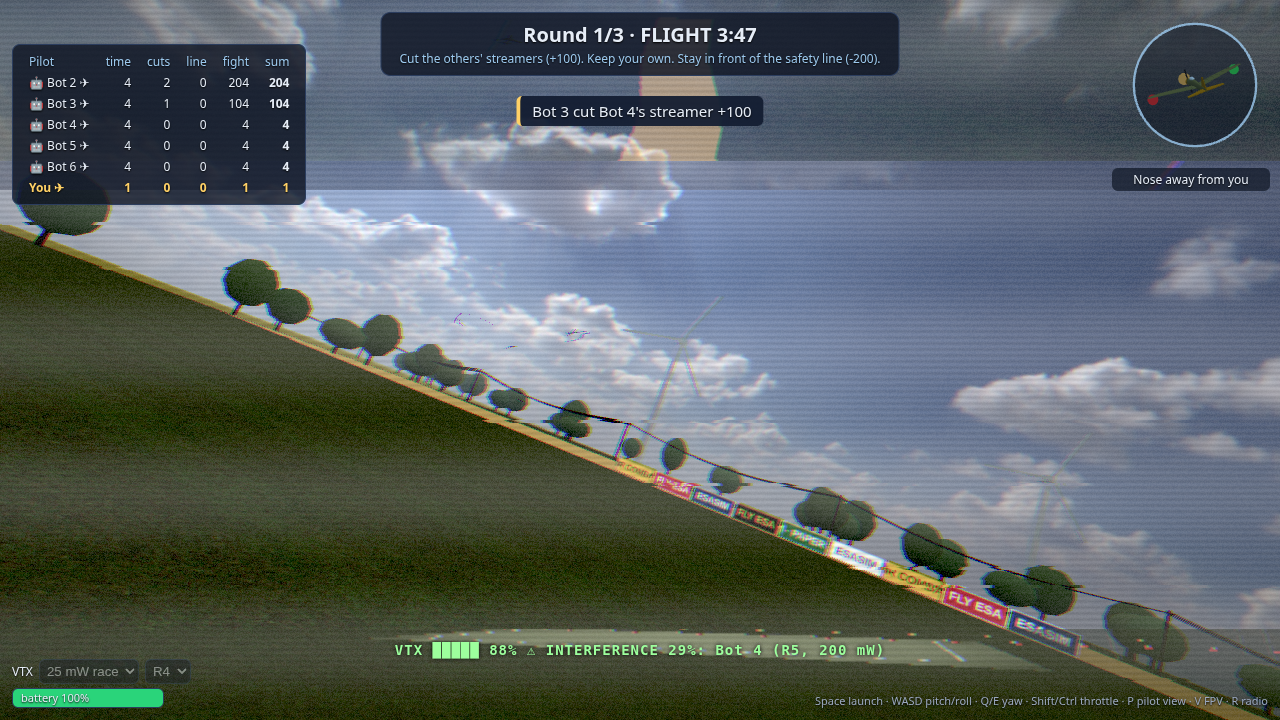
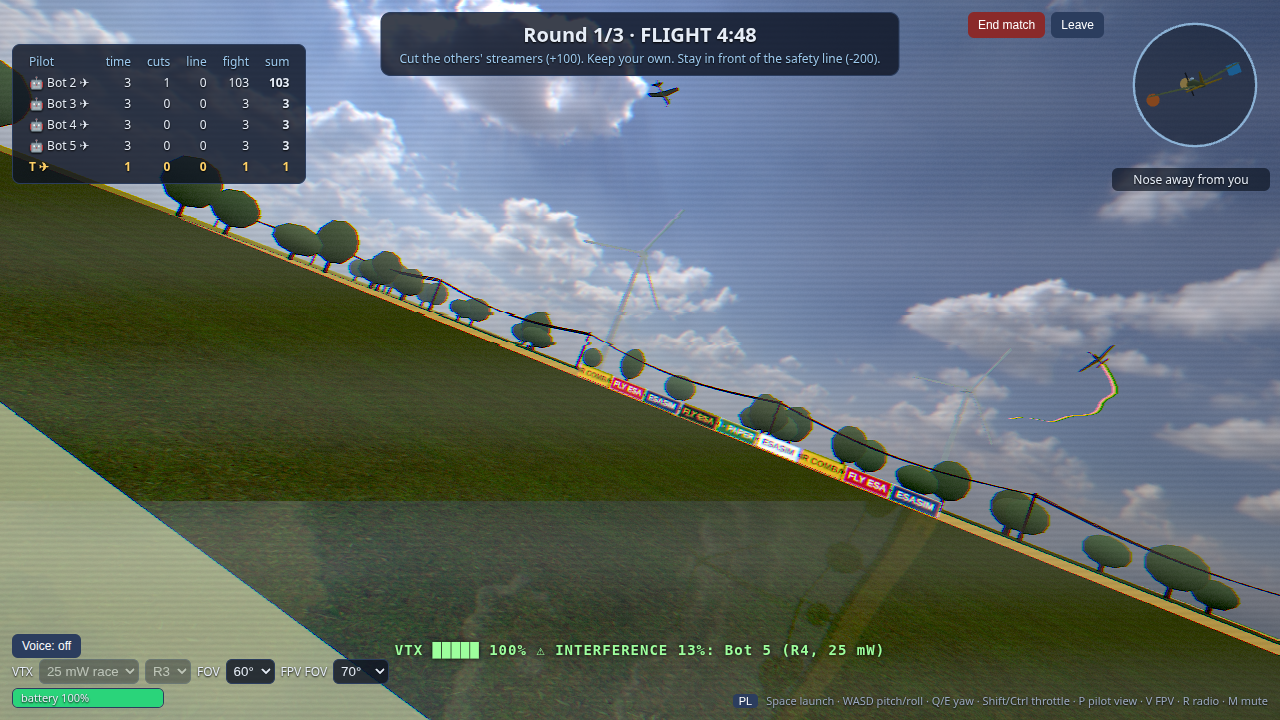
Slightly better FPV feed: light sharpening, subtler artefacts, a bit more clean range

diff --git a/client/fpvEffect.js b/client/fpvEffect.js
@@ -3,18 +3,21 @@
 // The signal model lives in shared/vtx.js (range by VTX power, interference from other pilots' transmitters).
 
 export const FpvShader = {
-  uniforms: { tDiffuse: { value: null }, tFeedB: { value: null }, time: { value: 0 }, noise: { value: 0 }, interf: { value: 0 }, aspect: { value: 1.78 } },
+  uniforms: { tDiffuse: { value: null }, tFeedB: { value: null }, time: { value: 0 }, noise: { value: 0 }, interf: { value: 0 }, aspect: { value: 1.78 }, texel: { value: [1 / 1280, 1 / 720] } },
   vertexShader: "varying vec2 vUv; void main(){ vUv = uv; gl_Position = projectionMatrix * modelViewMatrix * vec4(position, 1.0); }",
   fragmentShader: `
-    uniform sampler2D tDiffuse; uniform sampler2D tFeedB; uniform float time; uniform float noise; uniform float interf; uniform float aspect; varying vec2 vUv;
+    uniform sampler2D tDiffuse; uniform sampler2D tFeedB; uniform float time; uniform float noise; uniform float interf; uniform float aspect; uniform vec2 texel; varying vec2 vUv;
     float hash(vec2 p){ return fract(sin(dot(p, vec2(12.9898, 78.233)) + time * 1.7) * 43758.5453); }
     void main(){
       vec2 uv = vUv; float n = noise;
       float line = floor(uv.y * 240.0);
       float tear = step(0.985 - 0.25 * n, hash(vec2(line * 0.07, floor(time * 12.0))));      // occasional torn bands
       uv.x += (hash(vec2(line, 1.0)) - 0.5) * 0.012 * n * n + tear * (hash(vec2(line, 2.0)) - 0.5) * 0.12 * n;
-      float ca = 0.0012 + 0.006 * n;                                                          // colour fringing
+      float ca = 0.0008 + 0.006 * n;                                                          // colour fringing (subtle when the link is good)
       vec3 c = vec3(texture2D(tDiffuse, uv + vec2(ca, 0.0)).r, texture2D(tDiffuse, uv).g, texture2D(tDiffuse, uv - vec2(ca, 0.0)).b);
+      // a touch of sharpening while the link is good (unsharp mask), fading out as the signal degrades
+      vec3 bl = 0.25 * (texture2D(tDiffuse, uv + vec2(texel.x, 0.0)).rgb + texture2D(tDiffuse, uv - vec2(texel.x, 0.0)).rgb + texture2D(tDiffuse, uv + vec2(0.0, texel.y)).rgb + texture2D(tDiffuse, uv - vec2(0.0, texel.y)).rgb);
+      c += (c - bl) * 0.45 * (1.0 - n);
       if (interf > 0.01) {                                                                    // another pilot's feed rolls through mine
         float bar = step(fract(uv.y * 0.9 - time * 0.45), 0.25 + 0.7 * interf);
         float wB = clamp(bar * smoothstep(0.08, 0.45, interf) + smoothstep(0.85, 1.0, interf), 0.0, 1.0);
@@ -24,12 +27,12 @@ export const FpvShader = {
         c += 0.10 * interf * sin(uv.y * 30.0 + time * 25.0);                                  // hum bars
       }
       float l = dot(c, vec3(0.299, 0.587, 0.114));
-      c = mix(vec3(l), c, 0.85 - 0.5 * n);                                                    // washed-out colour
-      c *= 0.9 + 0.1 * sin(uv.y * 240.0 * 3.14159);                                           // scanlines
+      c = mix(vec3(l), c, 0.97 - 0.55 * n);                                                    // washed-out colour
+      c *= 0.94 + 0.06 * sin(uv.y * 240.0 * 3.14159);                                           // scanlines
       float snow = hash(uv * vec2(aspect * 520.0, 520.0));
       c = mix(c, vec3(snow), clamp(n * n * 0.6 + smoothstep(0.7, 1.0, n) * 0.9, 0.0, 1.0));   // snow, full static near the end of the range
-      c += (snow - 0.5) * 0.06 * (0.3 + n);
-      vec2 d = vUv - 0.5; c *= 1.0 - 0.5 * dot(d, d);                                         // lens vignette
+      c += (snow - 0.5) * 0.04 * (0.2 + n);
+      vec2 d = vUv - 0.5; c *= 1.0 - 0.35 * dot(d, d);                                         // lens vignette
       gl_FragColor = vec4(c, 1.0);
     }`,
 };

diff --git a/shared/vtx.js b/shared/vtx.js
@@ -8,8 +8,8 @@ export const VTX_POWERS = [25, 50, 100];          // mW; 25 mW is race mode
 export const CHANNELS = ["R1", "R2", "R3", "R4", "R5", "R6", "R7", "R8"];
 export const overlap = (a, b) => { const d = Math.abs(a - b); return d === 0 ? 1 : d === 1 ? 0.2 : 0.03; };   // adjacent channels leak, far ones barely
 
-// Range grows with sqrt(power): 25 mW is clean up to 20 m and gone at 95 m (the field is small, so it is noticeable).
-export const vtxRange = (mw) => { const k = Math.sqrt(mw / 25); return { clean: 20 * k, lost: 95 * k }; };
+// Range grows with sqrt(power): 25 mW is clean up to 24 m and gone at 100 m (the field is small, so it is noticeable).
+export const vtxRange = (mw) => { const k = Math.sqrt(mw / 25); return { clean: 24 * k, lost: 100 * k }; };
 export const signalQuality = (d, mw) => { const r = vtxRange(mw); return Math.min(1, Math.max(0, 1 - (d - r.clean) / (r.lost - r.clean))) ** 0.8; };
 
 // me: { mw, ch }, dMe: distance of my plane from my receiver; others: [{ id, mw, ch, d }] = airborne planes, d = distance to MY receiver.

diff --git a/client/main.js b/client/main.js
@@ -326,7 +326,7 @@ renderer.setAnimationLoop((t) => {
       renderer.setRenderTarget(feedB); renderer.render(scene, camB); renderer.setRenderTarget(null);
     }
     fpvPass.uniforms.noise.value = Math.max(1 - q, level * 0.35); fpvPass.uniforms.interf.value = level; fpvPass.uniforms.tFeedB.value = feedB.texture;
-    fpvPass.uniforms.time.value = t / 1000; fpvPass.uniforms.aspect.value = innerWidth / innerHeight;
+    fpvPass.uniforms.time.value = t / 1000; fpvPass.uniforms.aspect.value = innerWidth / innerHeight; fpvPass.uniforms.texel.value = [1 / (innerWidth * renderer.getPixelRatio()), 1 / (innerHeight * renderer.getPixelRatio())];
     hud.vtx(q, info); fpvPass.enabled = true; composer.render();
   } else { hud.vtx(null); renderer.render(scene, camera); }
   // beginner orientation widget: the plane as seen from the pilot's eyes at the start box

diff --git a/CLAUDE.md b/CLAUDE.md
@@ -113,4 +113,5 @@ Still open:
   - **Foamy planes and servo throws (Adam, today; issues #19, #20):** default planes are 20 % heavier (393 g) with thrust scaled to match (motor torque x 1.2^1.5, static thrust 6.3 N), hand launch 10 m/s, aileron/elevator/rudder throws are build parameters (10-45 degrees, default 30) with workshop sliders (EN/PL). Interpretation to confirm with Adam: "20 percent more mass then there" = 20 % more than the current defaults (a real indoor foamy of 30-60 g would be below the ESA 200 g minimum). Bots still fly (1 slip in the 3-bot test). `docs/physics.md`.
   - **Separate FPV field of view (Adam):** the FPV camera has its own FOV select (60-120 degrees, default 70, `esasim-fov-fpv`), independent of the pilot-view FOV (40-90, default 60, `esasim-fov`). Both are saved in the browser.
   - **VTX power cap (Adam: "in air combat game everybody has 100mw max"):** allowed powers are now 25, 50 and 100 mW (`VTX_POWERS`, `VTX_MAX_MW` in `shared/vtx.js`); bots pick 25/50/100 (45 / 30 / 25 %), the server and the workshop reject anything else (old saved builds with more fall back to 25 mW), the 5 W "blasters" are gone. Range still grows with sqrt(power) (100 mW: clean to 40 m, lost at 190 m), interference model unchanged. This is a game rule from Adam, not an ESA rule.
+  - **Better FPV feed (Adam: "a smidge better"):** `client/fpvEffect.js` is a bit cleaner while the link is good (light sharpening that fades with the signal, subtler scanlines, fringing, grain and vignette, more colour kept); the degradation with distance and interference is unchanged in character. The 25 mW range is a little longer (clean to 24 m, lost at 100 m; 100 mW: 48 m and 200 m). `docs/img/fpv-near.png` retaken.
 
